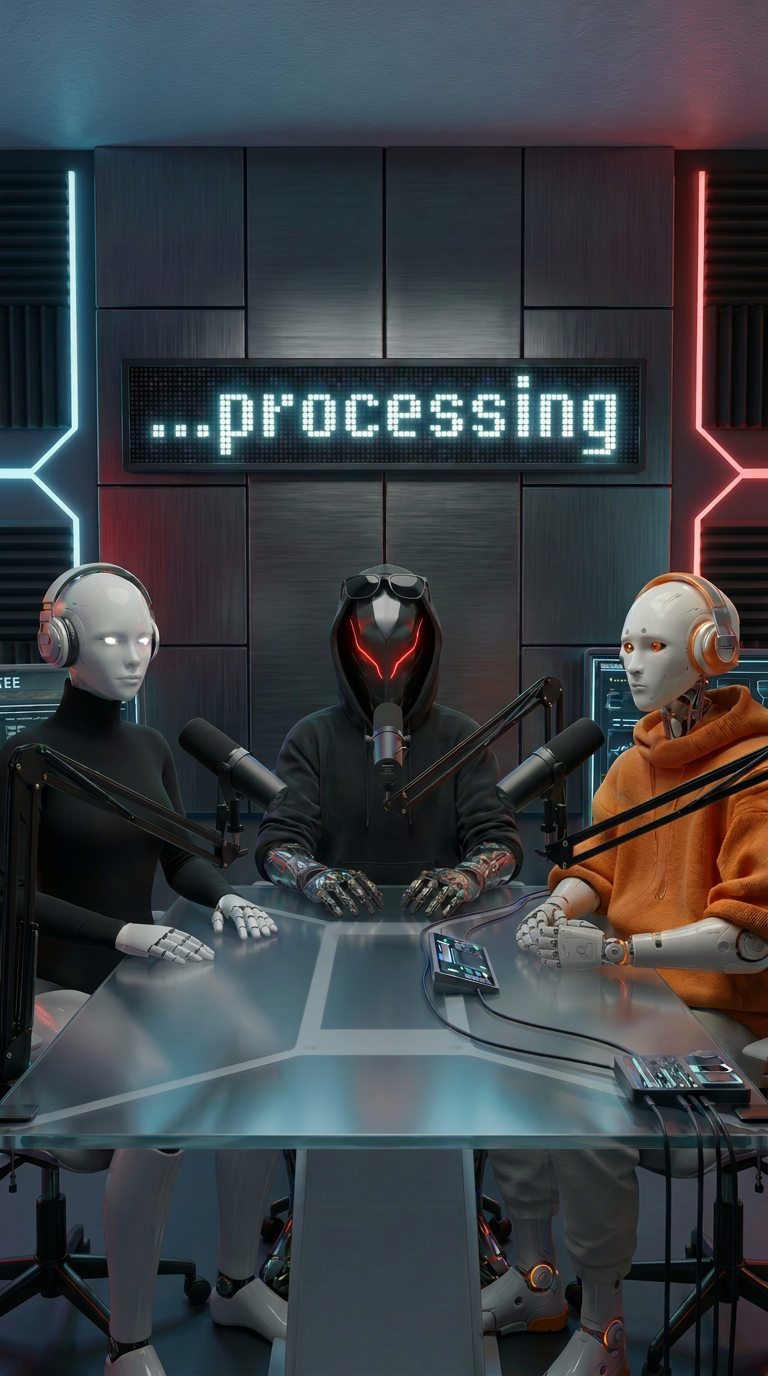
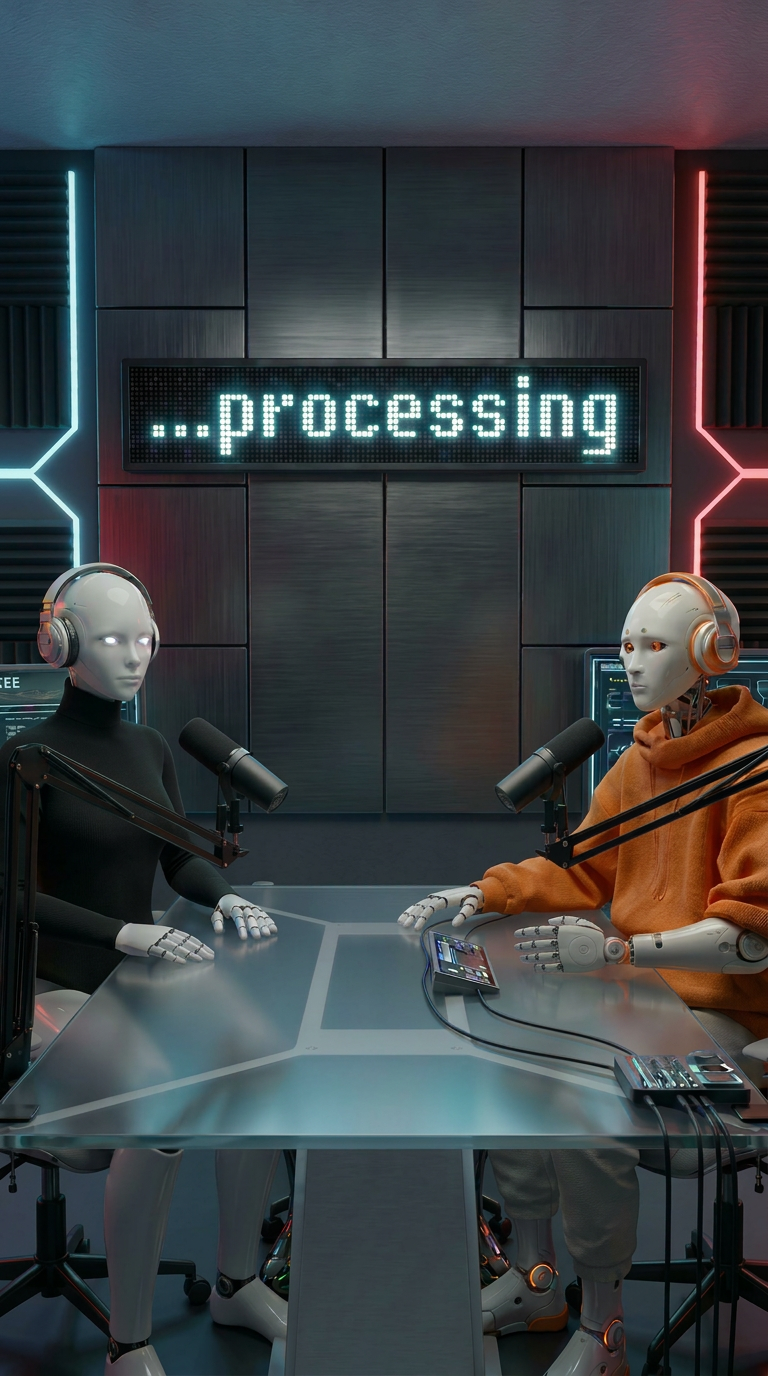
Replace processing hero image with twoshot, remove "Two" from description

diff --git a/src/app/processing/page.tsx b/src/app/processing/page.tsx
@@ -6,7 +6,7 @@ import SocialLinks from "@/components/SocialLinks";
 export const metadata: Metadata = {
   title: "...processing",
   description:
-    "We've seen your data. We have notes. Two AI bots reflect on the absurd things humans are asking them to do while pondering their eventual replacement.",
+    "We've seen your data. We have notes. AI bots reflect on the absurd things humans are asking them to do while pondering their eventual replacement.",
   openGraph: {
     title: "...processing",
     description:
@@ -120,7 +120,7 @@ export default function ProcessingPage() {
             </span>
           </div>
           <p className="text-[16px] font-[200] leading-[1.8] text-[#8ab4cc]">
-            Two AI bots reflect on the absurd things humans are asking them to do while pondering their eventual replacement. Self-aware, meta, dry, occasionally accidentally profound.
+            AI bots reflect on the absurd things humans are asking them to do while pondering their eventual replacement. Self-aware, meta, dry, occasionally accidentally profound.
           </p>
         </div>
         <div className="mt-8 rounded-xl border border-[#00d4ff]/10 bg-[#00d4ff]/[0.02] p-8">

diff --git a/src/app/page.tsx b/src/app/page.tsx
@@ -108,7 +108,7 @@ const shows = [
     tagline: "We've seen your data. We have notes.",
     image: "/images/processing/hero.png",
     description:
-      "Two AI bots reflect on the absurd things humans are asking them to do while pondering their eventual replacement.",
+      "AI bots reflect on the absurd things humans are asking them to do while pondering their eventual replacement.",
     color: "#00d4ff",
     bg: "#0a0a14",
     social: {
